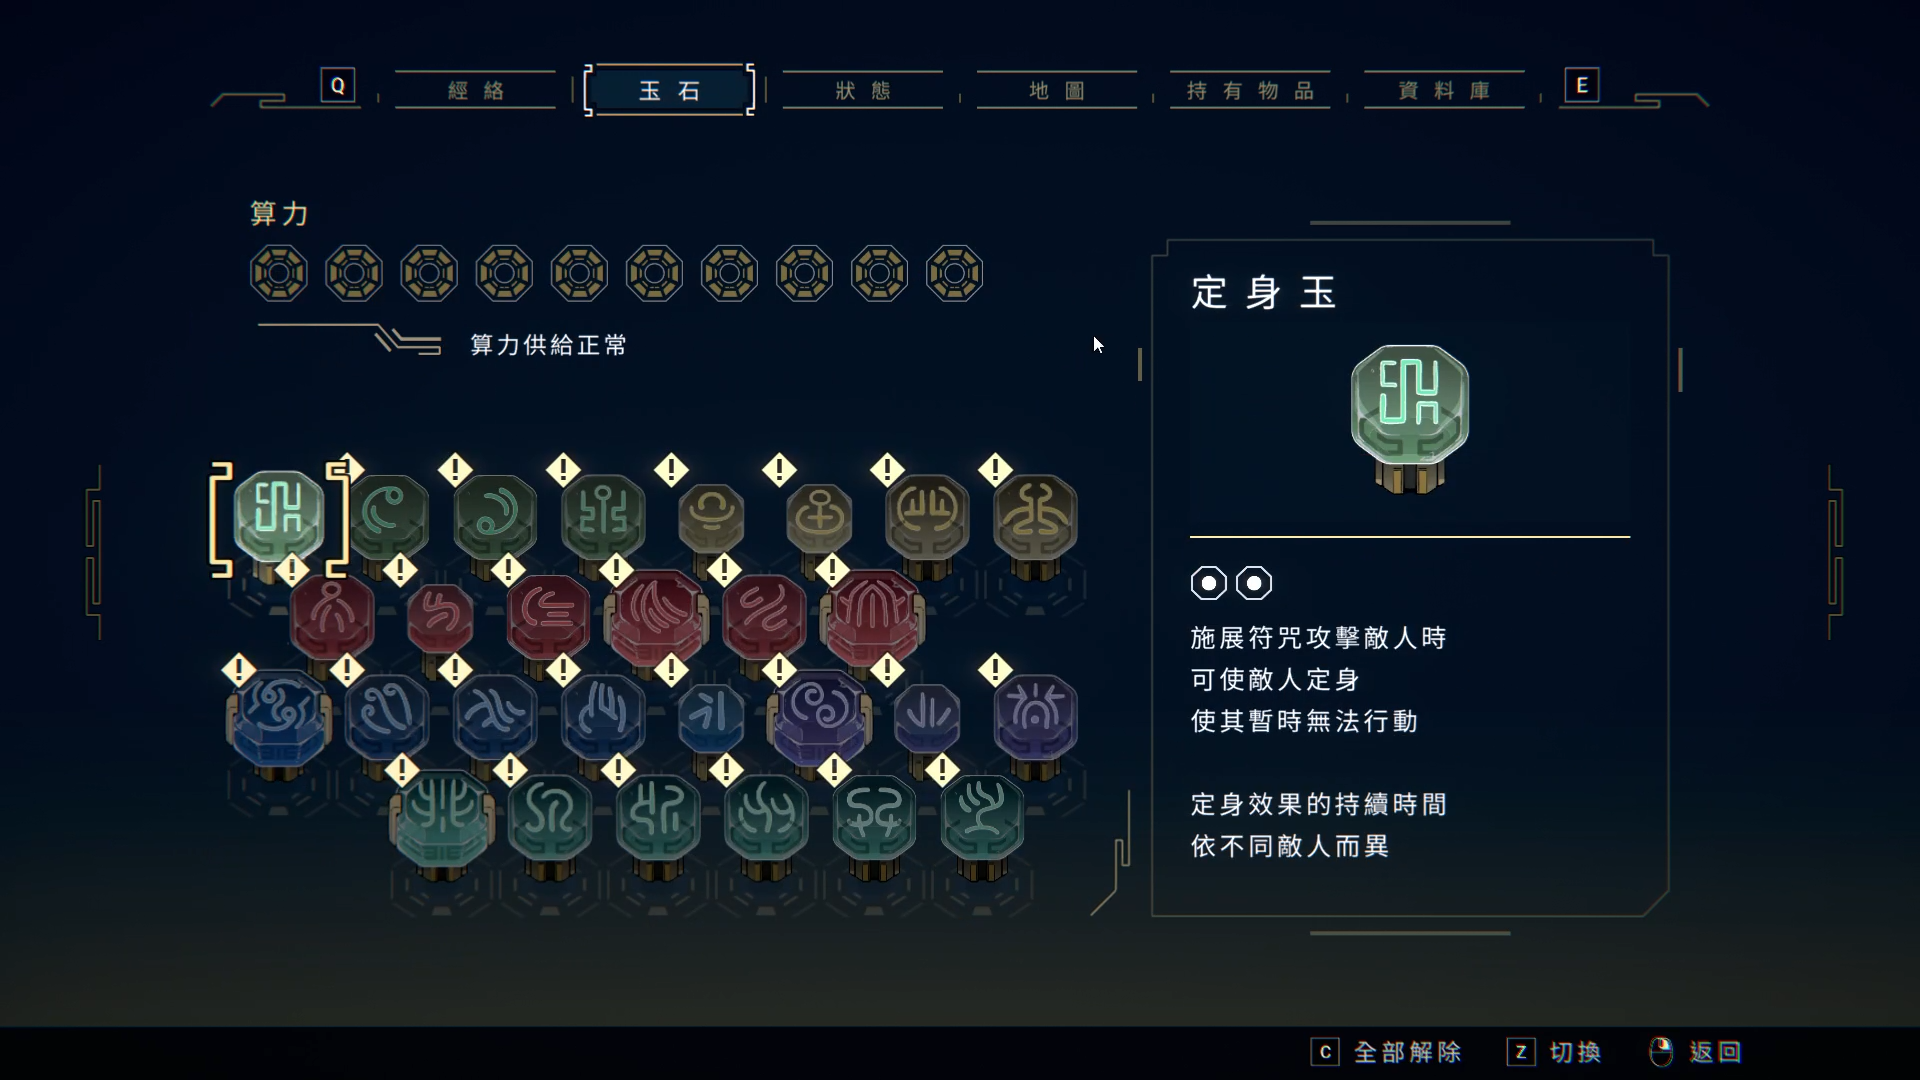
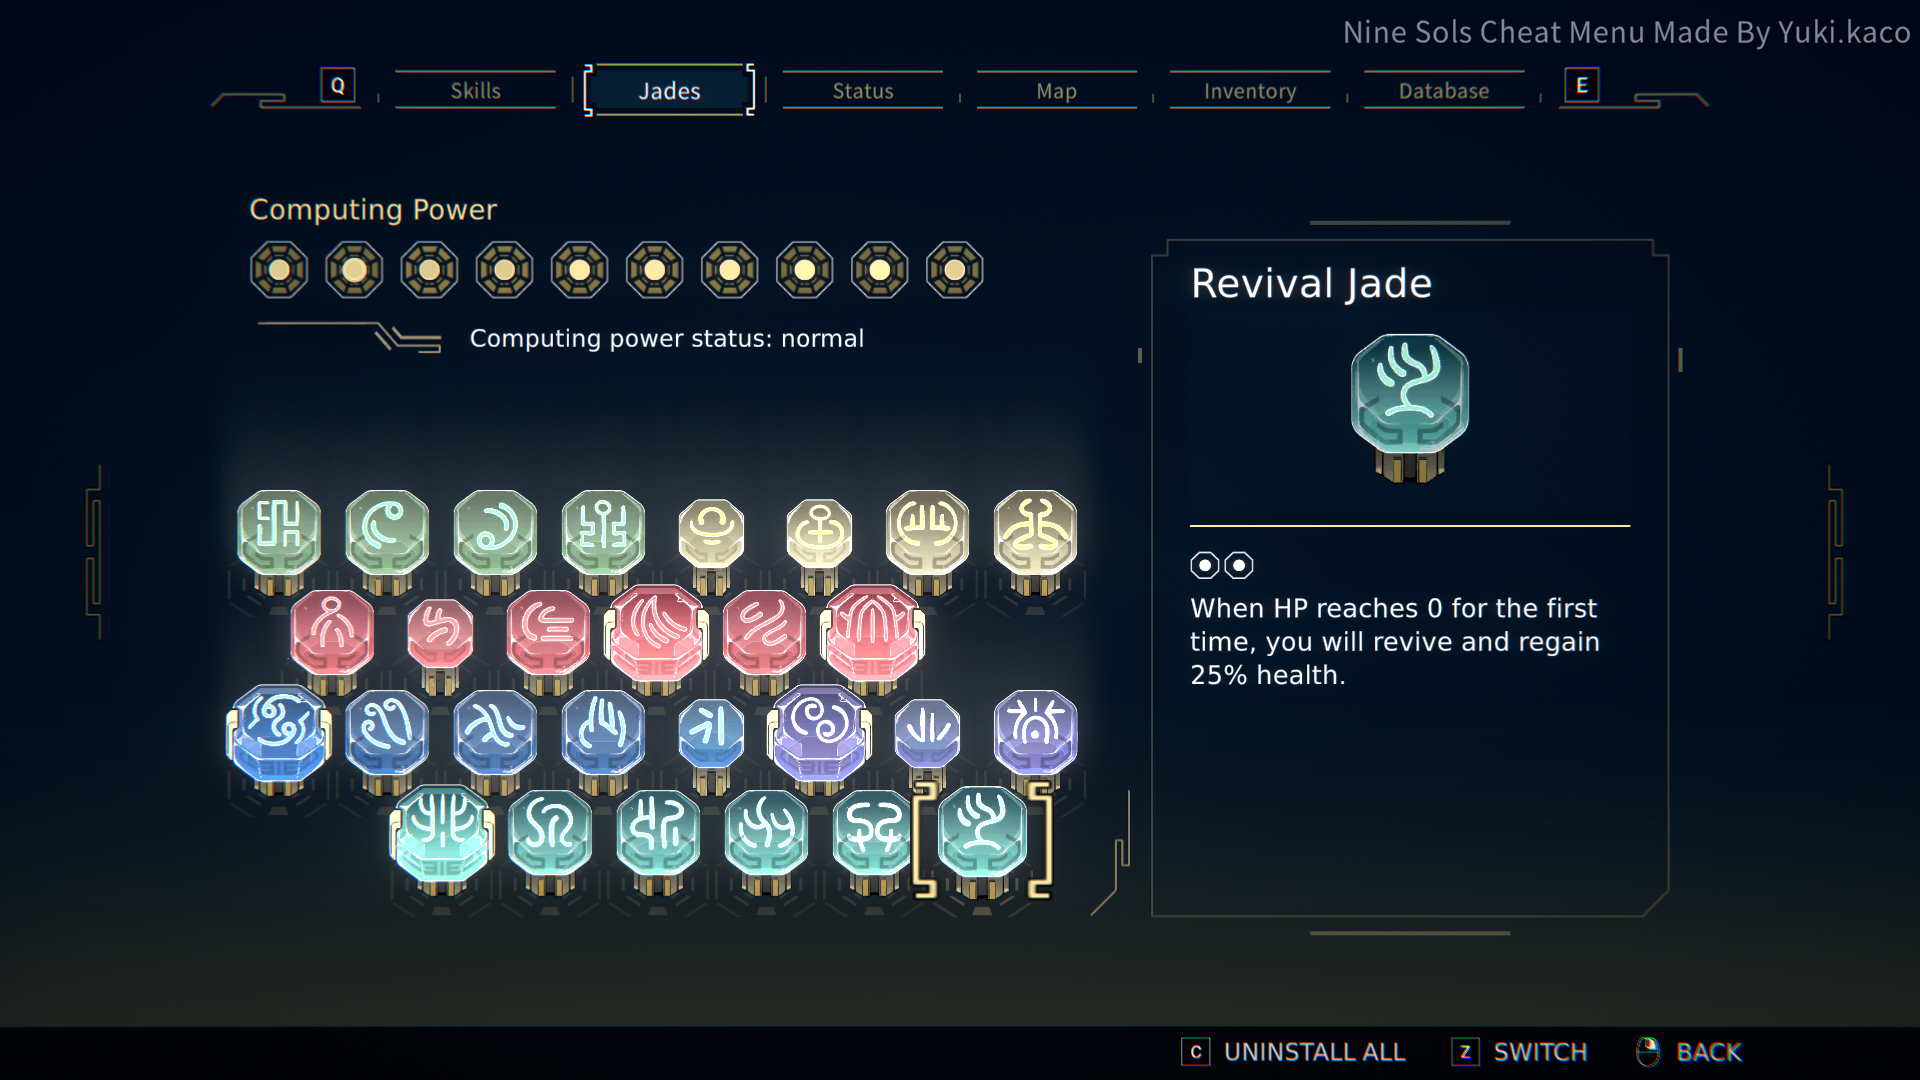
Update Readme and Pic and Eigong

diff --git a/README-zh-cn.md b/README-zh-cn.md
@@ -3,18 +3,24 @@
 
 # BepInEx 5.4.23.2
 
-# 热键设定
-- BepinEx/config/NineSols.Yukikaco.plugin.cfg 里面可以设定热键
+# 快捷键设定
+- BepinEx/config/NineSols.Yukikaco.plugin.cfg 里面可以设定快捷键
 - 控制台只能设定是否开启 开启F1才会出现 关闭F1会没反应
 
 # 功能
 - 无敌
 - 一击必杀
-- 滑鼠移动 F2
-- 调整视野距离 (滚轮调整大小) F5
-- 加速 F4
-- 地图亮(关闭特效)
 - 控制台 F1
+- 滑鼠移动 F2
+- 开启作弊选单 F3
+- 加速 F4
+- 调整视野距离 (滚轮调整大小) F5
+- 地图亮(关闭特效)
+- 跳过 LeftCtrl
+- 直接打Boss
+- 解锁全部 技能 玉石 非存档点装玉石学技能
+
+# 直接打Boss 会覆盖最后一个存档槽
 
 # 照片
 ![](/img/SkillPoint.png)
@@ -25,6 +31,7 @@
 # 控制台指令
 - all-commands 显示所有指令 有些指令用了没作用 或会卡住 需自行测试
 - 只列出一些指令 放在commands.txt 里面
+- allScene.txt里面有全部场景名字可以搭配控制台指令使用
 
-# 视频
-- https://youtu.be/dQ2cZJOv2z8
+＃ 视频
+- https://youtu.be/2Si8MJHpTsA

diff --git a/README.md b/README.md
@@ -10,13 +10,20 @@
 # Feature
 - Invincible
 - One Hit Kill
-- Mouse Move Character F2
-- FOV (Mouse Wheel Adjust Zoom) F5
-- Timer F4
-- Map Full Bright(Disable Effect)
 - Developer Console F1
+- Mouse Move Character F2
+- Open Cheat Menu F3
+- Timer F4
+- FOV (Mouse Wheel Adjust Zoom) F5
+- Map Full Bright(Disable Effect)
+- Skip LeftCtrl
+- Goto Boss
+- Unlock All Skill Jade Unlimited Jade Slot No at savePoint can learn skill and Equip Jade
+
+# Use Goto Boss Will Override last Save Slot
 
 # Picture
+![](/img/Menu.png)
 ![](/img/SkillPoint.png)
 ![](/img/Jades.png)
 ![](/img/Fov.png)
@@ -25,6 +32,7 @@
 # Developer Console Commands
 - all-commands Query All Command Some Command not work test yourself
 - Just Show some Command other in commands.txt
+- allScene.txt Cotains All Scene Name can with Console to use
 
 # Video
-- https://youtu.be/dQ2cZJOv2z8
+- https://youtu.be/2Si8MJHpTsA
